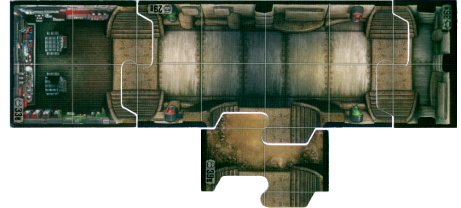
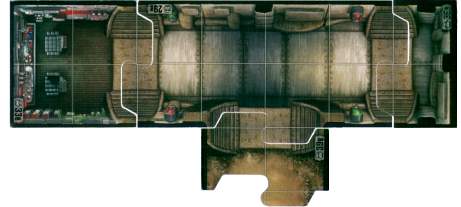
Map fixes: whole maps replace the tiles a later section covers; Disruption, Capital Escape, Mutiny and Dangerous Allies sections closed up; Sand Crawler 39B turned; map page sections open by heading
- Dangerous Allies' Canyon 16 squares up, its 39B in place of the Khetanna's 36B
- Disruption's hidden sections 14 squares left, Capital Escape's Command Center 9, Mutiny's Khetanna 1: one empty
  column between sections
- Salvage Operatives' Sand Crawler 39B turned 180 to match its art
- whole_image leaves out a tile whose squares a later section's tiles all cover (also Call to Action, Salvage
  Operatives, Trespass); examples/draw_map.py --whole the same
- Explorer: Hidden sections and Whole map open and close by their heading, each hidden section under its name; Tile
  images last

Tools b14167b.

diff --git a/site/js/views.js b/site/js/views.js
@@ -231,9 +231,16 @@ function grouped(refs, db, copiesOf) {
     ${grid(byType.get(t.file), db, undefined, copiesOf)}`);
 }
 
+const heading2 = (heading, count) => html`<h2>${heading}${count == null ? '' : html` <span class="count">${count}</span>`}</h2>`;
+// A related section closed until the viewer opens it by its heading.
+const closed = (heading, count, body) => html`
+  <details class="related closed">
+    <summary>${heading2(heading, count)}</summary>
+    ${body}
+  </details>`;
 const section = (heading, count, body) => html`
   <section class="related">
-    <h2>${heading}${count == null ? '' : html` <span class="count">${count}</span>`}</h2>
+    ${heading2(heading, count)}
     ${body}
   </section>`;
 
@@ -528,13 +535,13 @@ function layoutText(rows, db) {
       `${String(ref.record.number).padStart(2, '0')}${side}${count > 1 ? `(${count})` : ''}`).join(', ')}</dd>`)}</dl>`;
 }
 
-// The sections of a map revealed during its mission, in order: each stays closed until the viewer opens it.
+// The sections of a map revealed during its mission, in order, each under its name.
 function hiddenList(sections) {
   return html`<div class="hidden-sections">${sections.map(({name, image}) => html`
-    <details>
-      <summary>${name}</summary>
+    <figure>
+      <figcaption>${name}</figcaption>
       <a href="${imageUrl('large', image)}"><img loading="lazy" src="${imageUrl('large', image)}" alt="${name}"></a>
-    </details>`)}</div>`;
+    </figure>`)}</div>`;
 }
 
 // A mission's rewards: those it always gives, then its alternatives ("Choose 1"). Credits have no record to show.
@@ -590,17 +597,15 @@ export function detail(db, ref) {
   }
   const map = mapOf(ref, db);
   if (map) related.push(section('Map', null, grid([map], db)));
-  if (layout) related.push(section(aside ? 'Tile images' : 'Tiles', layout.length, layoutList(layout, db)));
+  // A map's hidden sections and its whole map (its image and every hidden section in one frame): each a section that
+  // stays closed until the viewer opens it.
   const hidden = (t.imageSections ?? []).flatMap(field => ref.record[field] ?? []);
-  if (hidden.length) related.push(section('Hidden sections', hidden.length, hiddenList(hidden)));
-  // An image shown in a section of its own: a map's whole map, its image and every hidden section in one frame.
+  if (hidden.length) related.push(closed('Hidden sections', hidden.length, hiddenList(hidden)));
   for (const [field, heading] of Object.entries(t.pageImages ?? {})) {
     const image = ref.record[field];
-    // Closed until the viewer opens it, like the hidden sections.
-    if (image) related.push(section(heading, null, html`<div class="hidden-sections"><details>
-      <summary>The starting map and every hidden section</summary>
+    if (image) related.push(closed(heading, null, html`<div class="hidden-sections">
       <a href="${imageUrl('large', image)}"><img loading="lazy" src="${imageUrl('large', image)}" alt="${heading}: ${name}"></a>
-    </details></div>`));
+    </div>`));
   }
   const usedIn = db.usedIn.get(ref);
   if (usedIn) related.push(section('Used in', usedIn.length, grid(usedIn, db)));
@@ -615,6 +620,8 @@ export function detail(db, ref) {
   }
   const backOf = db.backOf.get(ref);
   if (backOf) related.push(section('Back of', backOf.length, grouped(backOf, db)));
+  // Last: a map's tiles' images, by product (beside the image, a map's aside lists them by name).
+  if (layout) related.push(section(aside ? 'Tile images' : 'Tiles', layout.length, layoutList(layout, db)));
 
   return {
     title: name,

diff --git a/site/js/types.js b/site/js/types.js
@@ -8,7 +8,8 @@
 // `thumb: 'back'` makes tiles show the record's card back instead of its own image, which the peek still shows;
 // `icon` stands in for a missing image: 'pdf', or 'affiliation' (the record's affiliation's emblem). `imageSections`
 // lists fields holding [{name, image}] (a map's hidden sections); `pageImages` maps an image field to the heading of
-// the section of its own it's shown in on the record's page (a map's whole-map image). `aside: true` shows, next to
+// the section of its own it's shown in on the record's page (a map's whole-map image); both sections stay closed
+// until opened by their heading. `aside: true` shows, next to
 // the image instead of the fields table, the tile list in Vassal's names (a map's), its products and its children.
 // List pages filter and group by facets (facets.js), derived from the records' fields plus the products they come in
 // ('source', 'wave'; a source is its own product). `facets` picks and orders them, and can add a trait as a yes/no

diff --git a/site/style.css b/site/style.css
@@ -333,8 +333,12 @@ figure img { display: block; max-width: 100%; height: auto; border-radius: var(-
 figcaption { color: var(--muted); font-size: 0.85rem; margin-top: 4px; }
 
 .hidden-sections { display: grid; gap: 8px; }
-.hidden-sections summary { cursor: pointer; font-weight: 600; }
+.hidden-sections figure { margin: 0; }
+.hidden-sections figcaption { font-weight: 600; }
 .hidden-sections img { display: block; max-width: 100%; height: auto; margin-top: 8px; border-radius: var(--radius); }
+.related.closed > summary { cursor: pointer; }
+.related.closed > summary h2 { display: inline; }
+.related.closed[open] > summary { margin-bottom: 12px; }
 
 .fields {
   display: grid;

diff --git a/examples/draw_map.py b/examples/draw_map.py
@@ -9,7 +9,8 @@ Run from the repo root (it reads ./data and ./images). Each placement is a tile 
 `rotation`, its grid's top-left square at (`x`, `y`). A side's image is 64 px per square plus a 16 px margin at each
 end of an axis with connector tabs, so the image goes at x * 64 minus that margin (and the same for y). Drawn in the
 file's order, then cropped to the tiles, this gives the map images in images/large/maps (up to the order in which
-tiles whose tabs overlap are drawn).
+tiles whose tabs overlap are drawn). The whole map leaves out a tile whose squares a later section's tiles all cover:
+the revealed tile takes its place.
 """
 import argparse
 import json
@@ -45,15 +46,26 @@ def pieces(map_name, sections):
     return sorted(found, key=lambda f: order.index(f[1]['section']))
 
 
+def covers(image, placement, margin_x, margin_y):
+    """The squares a turned tile covers: those of its grid with the tile at their centre."""
+    return {(placement['x'] + i, placement['y'] + j)
+            for i in range(image.width // SQUARE) for j in range(image.height // SQUARE)
+            if image.getpixel((margin_x + i * SQUARE + SQUARE // 2, margin_y + j * SQUARE + SQUARE // 2))[3] > 127}
+
+
 def draw(found):
-    """The tiles drawn on a transparent page, cropped to them."""
-    layers = []
+    """The tiles drawn on a transparent page, cropped to them. A tile whose squares later sections' tiles all cover is
+    left out."""
+    layers, squares = [], []
     for path, placement in found:
         # rotate() turns counter-clockwise: a negative angle turns clockwise. expand keeps the whole tile.
         image = Image.open(Path('images', 'large', path)).convert('RGBA').rotate(-placement['rotation'], expand=True)
         margin_x = (image.width - image.width // SQUARE * SQUARE) // 2
         margin_y = (image.height - image.height // SQUARE * SQUARE) // 2
         layers.append((image, placement['x'] * SQUARE - margin_x, placement['y'] * SQUARE - margin_y))
+        squares.append((placement['section'], covers(image, placement, margin_x, margin_y)))
+    later = lambda i: set().union(*(s for section, s in squares[i + 1:] if section != squares[i][0]))
+    layers = [layer for i, layer in enumerate(layers) if not squares[i][1] <= later(i)]
     left = min(x for _, x, _ in layers)
     top = min(y for _, _, y in layers)
     width = max(x + image.width for image, x, _ in layers) - left

diff --git a/CLAUDE.md b/CLAUDE.md
@@ -16,12 +16,12 @@ A data-only dataset (no library/package) for FFG's *Star Wars: Imperial Assault*
   - `documents.json`: FFG's documents (`name`, `category`, `version`, `file` = a PDF in `documents/`, which is in the release zips but not on Pages; the explorer links to GitHub). A book or rules sheet in a product's box is a `source-contents` row (the rules sheets are the maintainer's scans, made into PDFs by `ia sheets`); a document published for a product is a `document-for` link; organized-play documents belong to no product.
   - `record-links.json` (no ids): `{from_type, from_id, to_type, to_id, relation, reverse_relation}` between records of any types, readable from either end. The schema's `oneOf` ties each relation to its reverse and the types it links: `figure-of`/`has-figure` (a miniature → the deployment cards and hero it stands for), `form-of`/`has-form` (a form card → both Clawdite Shapeshifter cards), `elite-of`/`regular-of` (an elite deployment card → its regular one), `campaign-of`/`skirmish-of` (a Campaign-only deployment card → its Skirmish-only twin), `document-for`/`has-document` (a document → a source), `requires`/`required-by` and `expands`/`expanded-by` (any record → a source).
   - `missions.json` indexes every mission (the five `campaign-*-missions` files, `skirmish-missions`, `raid-missions`, and `agenda-cards` with `mission: true`) through `content_type` + `content_id`. Missions reach products only through their index row (`source-contents` rows with `content_type: "missions"`); `mission-rewards.json` (no ids) lists each mission's rewards: a card through `content_type` + `content_id`, or `credits: true`; `choice: true` rows are pick-one alternatives.
-  - `maps.json` holds every mission's map; campaign maps (one per campaign mission, named after it; a map shared by missions is named after each, "Desperate Hour / Last Stand", its file `desperate-hour--last-stand.png`; every map is used by a mission) have images drawn by `ia maps` from ImperialCommander2's layouts as corrected by the maintainer (imperial-assault-tools' `CORRECTIONS` in `ia_tools/ic2.py`): tiles only; a map whose sections are revealed during its mission has them in `hidden_sections` (`{name, image}` each, in order; `[]` for the rest) and an image of the whole map in `whole_image` (its image, then each hidden section, in one frame; `null` for the rest). `map-tiles.json`: the double-sided tiles (`name` "Core Set 01", `number`, `side_a`/`side_b` images cut on their outline), in products through `source-contents` (`quantity` = copies), in product code then number order. `map-layouts.json` (no ids): `{map_id, tile_id, side, count, placements}`, the tile sides a map is built from and where they go (campaign layouts from ImperialCommander2 as corrected; skirmish, four-player and raid ones found by matching the Vassal skirmish module's boards and reviewed by the maintainer). `count` is the copies the mission takes; `placements` (`{section, x, y, rotation}`: `section` null for the map's image or a `hidden_sections` name, `x`/`y` the top-left square of the turned tile's grid in one frame per map starting at 0, 0, `rotation` clockwise degrees of the side's image) are where the images put them: every copy is placed, no one image places a side more than `count` times, and a tile hidden sections recycle is placed more often (Race on Ryloth). Rows are sorted by the map's mission product code (a product without one right after the last coded product released by then), map name, then tile product code descending, number and side; placements by section, `y`, `x` (imperial-assault-tools' `layouts.row_order` and `rows_for`; `tests/test_integrity.py` checks both). `ia maps --write` writes the campaign maps' images, hidden sections and layout rows; `ia skirmish-maps --write` the skirmish and raid maps' rows (their images stay the Skirmish Map Project's).
+  - `maps.json` holds every mission's map; campaign maps (one per campaign mission, named after it; a map shared by missions is named after each, "Desperate Hour / Last Stand", its file `desperate-hour--last-stand.png`; every map is used by a mission) have images drawn by `ia maps` from ImperialCommander2's layouts as corrected by the maintainer (imperial-assault-tools' `CORRECTIONS` in `ia_tools/ic2.py`): tiles only; a map whose sections are revealed during its mission has them in `hidden_sections` (`{name, image}` each, in order; `[]` for the rest) and an image of the whole map in `whole_image` (its image, then each hidden section, in one frame, a tile a later section covers left out; `null` for the rest). `map-tiles.json`: the double-sided tiles (`name` "Core Set 01", `number`, `side_a`/`side_b` images cut on their outline), in products through `source-contents` (`quantity` = copies), in product code then number order. `map-layouts.json` (no ids): `{map_id, tile_id, side, count, placements}`, the tile sides a map is built from and where they go (campaign layouts from ImperialCommander2 as corrected; skirmish, four-player and raid ones found by matching the Vassal skirmish module's boards and reviewed by the maintainer). `count` is the copies the mission takes; `placements` (`{section, x, y, rotation}`: `section` null for the map's image or a `hidden_sections` name, `x`/`y` the top-left square of the turned tile's grid in one frame per map starting at 0, 0, `rotation` clockwise degrees of the side's image) are where the images put them: every copy is placed, no one image places a side more than `count` times, and a tile hidden sections recycle is placed more often (Race on Ryloth). Rows are sorted by the map's mission product code (a product without one right after the last coded product released by then), map name, then tile product code descending, number and side; placements by section, `y`, `x` (imperial-assault-tools' `layouts.row_order` and `rows_for`; `tests/test_integrity.py` checks both). `ia maps --write` writes the campaign maps' images, hidden sections and layout rows; `ia skirmish-maps --write` the skirmish and raid maps' rows (their images stay the Skirmish Map Project's).
   - `card-backs.json` is a catalog of backs (`name`, `image`); every card points at its back through `back_id`. Heroes, Imperial classes and agenda decks have none: their backs are on their cards' `back_id`.
 - `schemas/<content-type>.json` — Draft-04 JSON Schema per data file; shared enums (affiliations, traits, buff types, image path pattern) live in `schemas/definitions.json` and are pulled in via `$ref`. Schemas set `additionalProperties: false` and list all fields as `required` (nullable fields use `oneOf [..., null]`).
 - `images/large/` and `images/small/` — mirror trees (`<content-type>/<slug>.png`); data `image`/`healthy`/`wounded` fields are paths relative to these roots. Do not open image files when evaluating data; they are ~500MB of binaries.
 - `docs/data-model.md` — Mermaid ER diagrams of the relationships above, and how card backs, missions and epilogues work. Keep it in sync when relationships change.
-- `site/` — the data explorer (https://lvisintini.github.io/imperial-assault-data/): static HTML/CSS/ES modules, no build, one pinned CDN library (Mermaid). It fetches `data/`, `images/` and `docs/` as siblings of itself, so it only runs as assembled by `pages.yml` or served by `serve_site.py`. `js/types.js` lists the content types in navigation order, with each type's submenu (`menu`: the top-level type it's under), default sort (`sort`, used by `js/sort.js`; without one, by product: the earliest release date and product code of the products a record is in, then name), whether its tiles show the card back (`thumb`) or an icon in place of a missing image (`icon`: PDF, or the affiliation's emblem), and its list page's facets, default grouping and value order (`facets`, `groups`, `order`, used by `js/facets.js`, which derives filters and grouping from the data, including a filter by parent record for FK children, and by sorting). `aside` (maps) puts the tile list (a line per product, newest first: `ToL  01A, 03A`, `Core  32A(2)`, Vassal's prefixes as the product's short name; plain text), then the products and the missions side by side, next to the image in place of the fields table, and `pageImages` gives an image field a closed section of its own (a map's Whole map). An entry with `of` + `where` is a page of some of another type's records (Agenda missions: agenda cards with `mission`), not a data file; `js/peek.js` shows a card's large image on hover; `js/relations.js` holds the relationships from `docs/data-model.md` (including `BACK`, the `back_id` link, and which parents show their cards' back); `tests/test_site.py` checks both against the data model and schemas.
+- `site/` — the data explorer (https://lvisintini.github.io/imperial-assault-data/): static HTML/CSS/ES modules, no build, one pinned CDN library (Mermaid). It fetches `data/`, `images/` and `docs/` as siblings of itself, so it only runs as assembled by `pages.yml` or served by `serve_site.py`. `js/types.js` lists the content types in navigation order, with each type's submenu (`menu`: the top-level type it's under), default sort (`sort`, used by `js/sort.js`; without one, by product: the earliest release date and product code of the products a record is in, then name), whether its tiles show the card back (`thumb`) or an icon in place of a missing image (`icon`: PDF, or the affiliation's emblem), and its list page's facets, default grouping and value order (`facets`, `groups`, `order`, used by `js/facets.js`, which derives filters and grouping from the data, including a filter by parent record for FK children, and by sorting). `aside` (maps) puts the tile list (a line per product, newest first: `ToL  01A, 03A`, `Core  32A(2)`, Vassal's prefixes as the product's short name; plain text), then the products and the missions side by side, next to the image in place of the fields table, `imageSections` and `pageImages` give image fields a section that opens by its heading (a map's Hidden sections, each under its name, and Whole map), and the tiles' images come last. An entry with `of` + `where` is a page of some of another type's records (Agenda missions: agenda cards with `mission`), not a data file; `js/peek.js` shows a card's large image on hover; `js/relations.js` holds the relationships from `docs/data-model.md` (including `BACK`, the `back_id` link, and which parents show their cards' back); `tests/test_site.py` checks both against the data model and schemas.
 - `tests/constants.py` — `CONTENT_TYPES` registry (`as_list`, `without_ids`) plus Python mirrors of the trait/type enums.
 - `pyproject.toml` — holds the dataset `version` (`[project].version`, SemVer, see README; `build_release.py` reads it), the `dev` dependency group, and pytest config. Non-package uv project; `uv.lock` is committed.
 - `.github/workflows/test.yml` — runs `uv run pytest` on push/PR against Python 3.12 and 3.14.

diff --git a/docs/data-model.md b/docs/data-model.md
@@ -451,7 +451,8 @@ Fittest, Trespass) shows what's on the table at the start in `image`, and each s
 Underworld (Obscured area) is 17 of them; Into a Corner's Main Street, City Square and Landing are one of the copies IC2
 places on each side; Salvage Operatives' Sand Crawler is one of IC2's three positions). Such a map also has a
 `whole_image`: its image and then each hidden section, in order, drawn in one frame (where sections replace each other,
-as on Race on Ryloth, the later ones are drawn on top); it's `null` for the rest. Like the tiles, a campaign map's
+as on Race on Ryloth, the later ones are drawn on top, and a tile whose squares a later section's tiles all cover is
+left out: Dangerous Allies' Canyon 39B takes the place of the Khetanna's 36B); it's `null` for the rest. Like the tiles, a campaign map's
 small images are the same files as its large ones.
 
 ```mermaid
